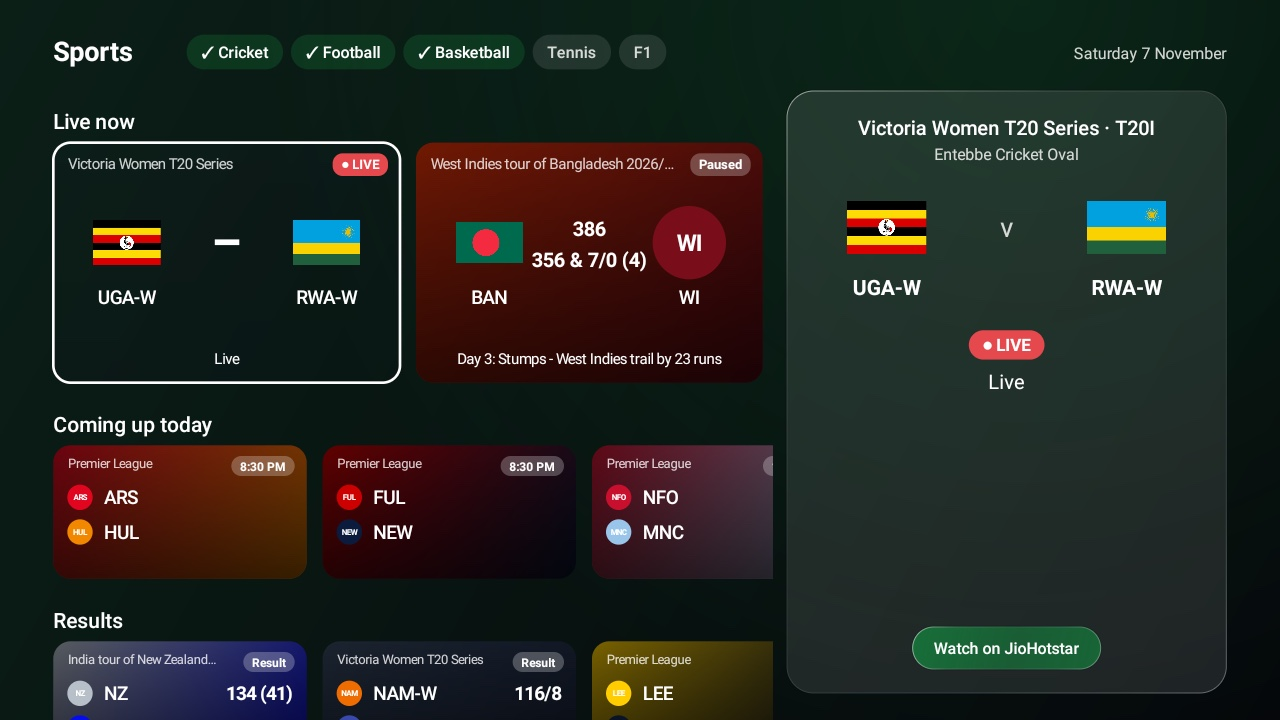
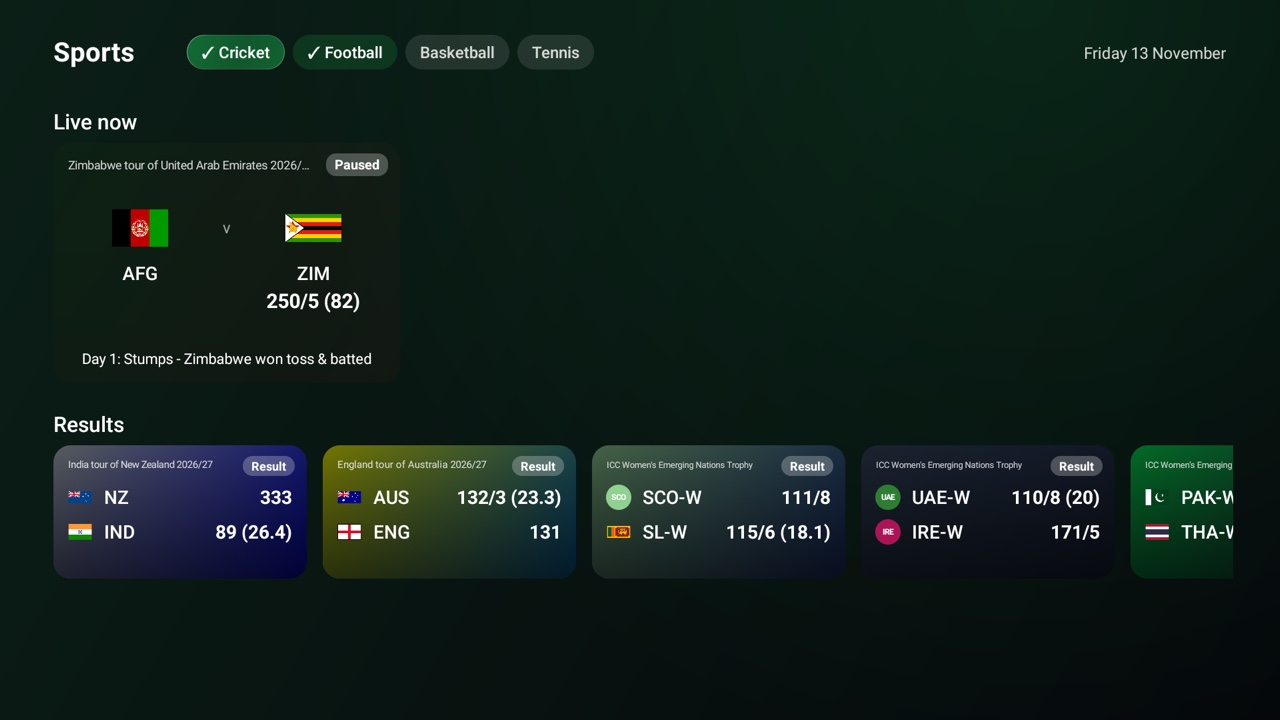
Screenshots and feature notes for 1.3: phone remote, YouTube saving, Share, Sports

diff --git a/FEATURES.md b/FEATURES.md
@@ -200,27 +200,27 @@ Nothing is uninstalled: switching off uses Android's own "disable", and **Turn a
 
 ### Sports home
 
-Pick your sports at the top: cricket, football (Premier League, Champions League, ISL, La Liga, World Cup), basketball (NBA), and tennis. Rows show what's live now, coming up today, and results, each card in the two teams' colours with their badges or flags. The card on the right follows you as you move; OK (or Right at the end of a row) steps onto it, to **Watch on** the app showing it or open the **Full scorecard**.
+Pick your sports at the top: cricket, football (Premier League, Champions League, ISL, La Liga, World Cup), basketball (NBA), and tennis. Rows show what's live now, coming up today, and results, each card in the two teams' colours with their badges or flags. OK on a match opens its full page.
 
 ![Sports home](media/screenshots/08-sports/sports-home.jpg)
 
-### Live scorecards and stats
+### Full scorecards and stats
 
-A match's card has the big score, the ground and the latest: cricket's batting and bowling cards, or football's possession, shots, corners and fouls, with goals and cards as they happen. It refreshes every 30 seconds while the match is live. Watch on opens the app showing it.
+A match's page has the big score, the ground and the result, then for cricket every innings in full: each batter with how they got out, runs, balls, fours, sixes and strike rate, the extras, who didn't bat, and every bowler. Football shows possession, shots, corners and fouls, with goals and cards as they happen. Up and Down scroll; it refreshes every 30 seconds while the match is live, and **Watch on** opens the app showing it.
 
 ![Live scorecard](media/screenshots/08-sports/match-scorecard.jpg)
 
 
 ## Phone remote
 
-Your phone becomes the remote and a game controller, with nothing to install. Frosted glass, and every tab fits on one screen.
+Your phone becomes the remote and a game controller, with nothing to install. Dark or light (the sun button switches), tabs on top, and every tab fits on one screen above the phone's browser bars.
 
 ### Remote, Browse and Files
 
 - **Always there:** a Search bar with a mic that searches inside the app on the TV (YouTube, Netflix, Prime Video, JioHotstar…) or in TV Town; what's playing with Song and Video download buttons; and at the bottom Back, a big Home, the arrows with OK, and volume with Mute.
-- **Remote:** your five main apps and All apps as big tiles, then Surprise Me, My Movies and My Music, playback and the coloured buttons.
-- **Browse:** TV Town Home, every TV Town place, and the music player's and TV's buttons.
-- **Files:** save from YouTube and share with the TV (see below), with a Folders button for where saves go.
+- **Remote:** your main apps as a row of tiles, playback and the coloured buttons. **All apps** shows every app, and **TV settings** opens Wi-Fi, Bluetooth, sound, picture and more in one tap.
+- **Browse:** Surprise Me, My Movies, My Music and every TV Town place, and the music player's buttons.
+- **Files:** Send to TV and Get from TV on the left, saving from YouTube (Find a song, MP3 or MP4, Download what's playing) on the right, with the drive's free space.
 
 Works on iPhone and Android, on your home Wi-Fi. Every keyboard on the TV has a **Type on your phone** key that shows a QR code to type on your phone.
 
@@ -240,7 +240,7 @@ Save any song or video to your own drive, from your phone or with the TV remote,
 - **Audio or video:** MP3 for songs, MP4 to keep the picture.
 - **What's playing, a name or a link:** tap Song or Video while YouTube plays on the TV, or Find a song to search by name or paste a YouTube link.
 - **Your choice of folder:** songs and videos each go where you choose, ready in My Music and My Movies.
-- **On the TV too:** press **OK twice** quickly while a YouTube video plays (it blinks and carries on). It saves in the background, even with your phone closed.
+- **On the TV too:** press **OK twice** quickly while a YouTube video plays. A small pop-up asks first: choose MP3 or Video, then Download or Cancel, so a stray press never saves anything. It saves in the background, even with your phone closed.
 - **Help** is one tap away on the page.
 
 ![YouTube downloads](media/screenshots/10-youtube-downloads/download.jpg)
@@ -251,6 +251,7 @@ Move files between your phone and the drive plugged into the TV, over Wi-Fi, wit
 
 - **Send to TV:** pick songs, films or subtitles on your phone. Songs go to Music and films to Movies by themselves, or choose a folder.
 - **Get from TV:** open a folder and tap a file to save it on your phone.
+- **LocalSend:** from any phone or computer with the free LocalSend app: open Customize → Phone and downloads → Receive files on the TV, then send.
 - **Safe:** nothing is ever replaced, and half-sent files are never left behind.
 - **Help** is one tap away on the page.
 

diff --git a/README.md b/README.md
@@ -135,7 +135,7 @@ Find something worth watching.
 
 ### [Sports](FEATURES.md#control-center-and-sports)
 
-Live scores and scorecards for the sports you follow.
+Live scores and full scorecards for the sports you follow.
 
 ![Sports](media/screenshots/08-sports/sports-home.jpg)
 
